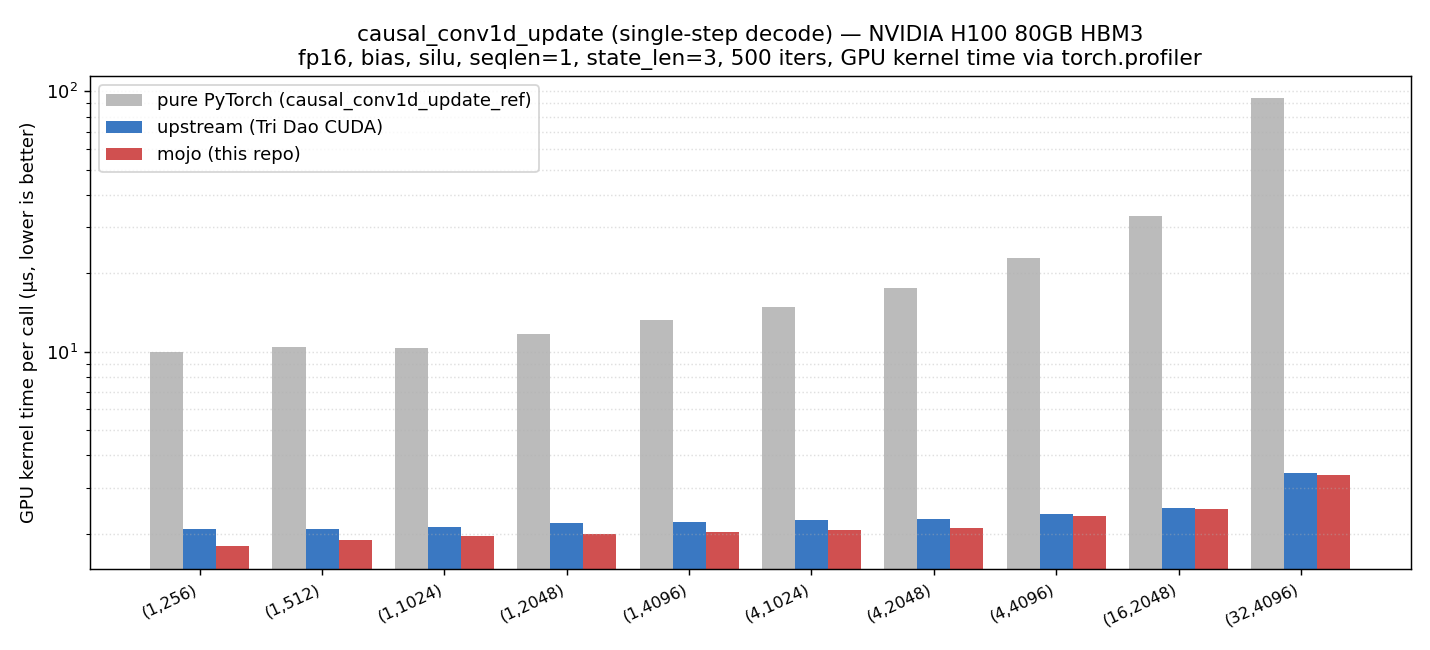
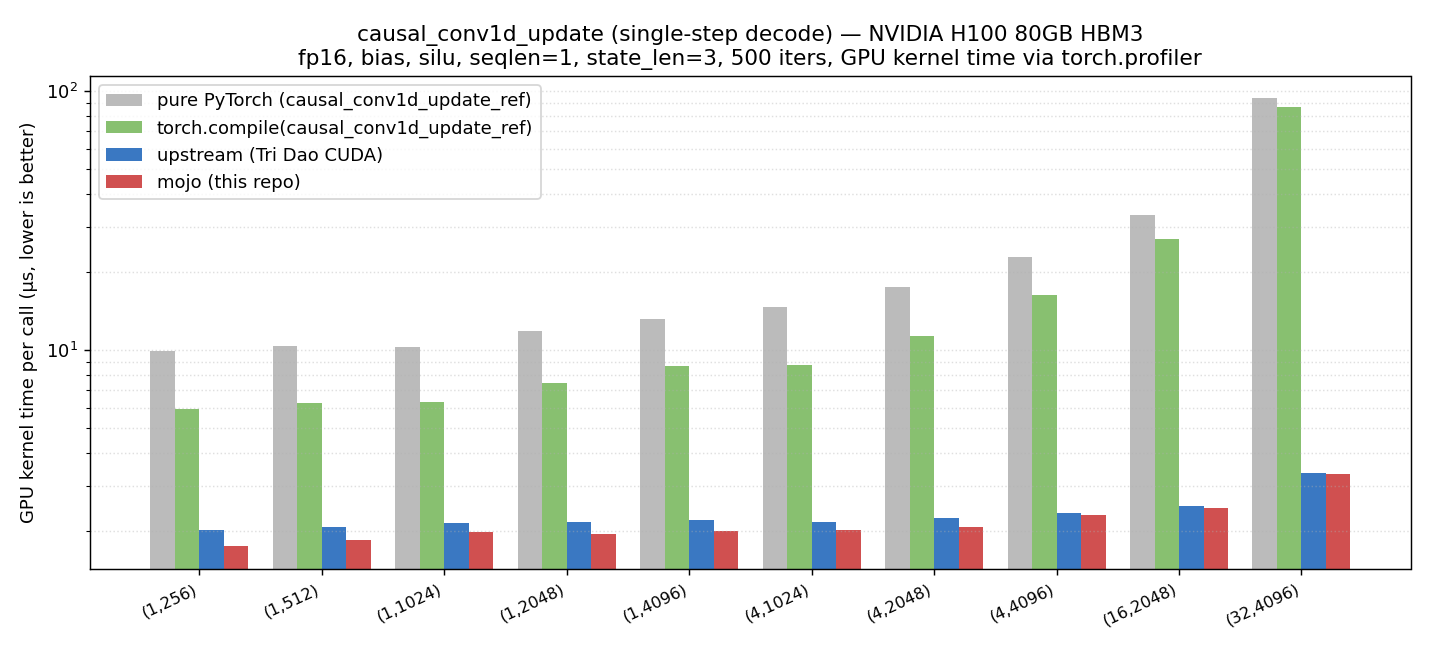
Add torch-compile

diff --git a/benchmarks/plot_bench.py b/benchmarks/plot_bench.py
@@ -20,6 +20,7 @@ import torch.nn.functional as F
 from torch.profiler import ProfilerActivity, profile
 
 import causal_conv1d_mojo
+from causal_conv1d_mojo.reference import causal_conv1d_update_ref
 
 # Optional dep — install with `pip install causal-conv1d==1.6.1` (or
 # `pixi run pip install -e .[bench]`). The package is a C++ extension
@@ -85,6 +86,21 @@ def pytorch_fwd(x, weight, bias):
     return F.silu(out)
 
 
+# torch.compile'd reference. inductor specializes per shape on first call;
+# warmup inside bench_kernel hides the compile cost. We compile the
+# functions once at module load — the dynamo cache handles shape
+# specialization automatically across the SHAPES loop.
+#
+# Bump dynamo's recompile_limit: each new (B,D,L) and each requires_grad
+# toggle counts as a recompile, and the fwd+bwd path adds a grad-enabled
+# specialization per shape. Default 8 falls back to eager partway
+# through the bench, which silently makes the last shapes match pure
+# PyTorch exactly. 64 is comfortably above our shape × grad count.
+torch._dynamo.config.recompile_limit = 64
+pytorch_fwd_compiled = torch.compile(pytorch_fwd)
+update_ref_compiled = torch.compile(causal_conv1d_update_ref)
+
+
 def bench_kernel(fn, warmup: int, iters: int) -> float:
     """Mean GPU time per call, μs, via torch.profiler (CUPTI).
 
@@ -112,23 +128,21 @@ def bench_kernel(fn, warmup: int, iters: int) -> float:
     return total_us / iters
 
 
-def grouped_bar(
-    labels,
-    pt,
-    up,
-    mojo,
-    *,
-    title,
-    out_path,
-    pt_label="pure PyTorch (F.conv1d + F.silu)",
-):
+def grouped_bar(labels, groups, *, title, out_path):
+    """Render a grouped bar chart.
+
+    `groups` is a list of (label, color, values) tuples, one per bar in
+    each cluster. Bars are centered on each x-tick and sized to fit
+    inside a 0.8-wide slot regardless of group count.
+    """
     n = len(labels)
+    n_bars = len(groups)
     x_pos = list(range(n))
-    bw = 0.27
+    bw = 0.8 / n_bars
+    offsets = [(i - (n_bars - 1) / 2) * bw for i in range(n_bars)]
     fig, ax = plt.subplots(figsize=(max(10, 0.9 * n + 2), 5))
-    ax.bar([p - bw for p in x_pos], pt, bw, label=pt_label, color="#bbbbbb")
-    ax.bar(x_pos, up, bw, label="upstream (Tri Dao CUDA)", color="#3a78c2")
-    ax.bar([p + bw for p in x_pos], mojo, bw, label="mojo (this repo)", color="#d05050")
+    for offset, (lbl, color, vals) in zip(offsets, groups):
+        ax.bar([p + offset for p in x_pos], vals, bw, label=lbl, color=color)
     ax.set_xticks(x_pos)
     ax.set_xticklabels(labels, rotation=25, ha="right", fontsize=9)
     ax.set_ylabel("GPU kernel time per call (μs, lower is better)")
@@ -150,8 +164,8 @@ def main() -> None:
     gpu_name = torch.cuda.get_device_name(0)
     labels = [f"({b},{d},{l},{w})" for b, d, l, w in SHAPES]
 
-    fwd_mojo, fwd_up, fwd_pt = [], [], []
-    bwd_mojo, bwd_up, bwd_pt = [], [], []
+    fwd_mojo, fwd_up, fwd_pt, fwd_pt_c = [], [], [], []
+    bwd_mojo, bwd_up, bwd_pt, bwd_pt_c = [], [], [], []
 
     for b, d, l, w in SHAPES:
         # ------- forward only -------
@@ -166,9 +180,13 @@ def main() -> None:
         )
         u_f = bench_kernel(lambda: upstream_fn(x, weight, **kw), WARMUP_FWD, ITERS_FWD)
         p_f = bench_kernel(lambda: pytorch_fwd(x, weight, bias), WARMUP_FWD, ITERS_FWD)
+        pc_f = bench_kernel(
+            lambda: pytorch_fwd_compiled(x, weight, bias), WARMUP_FWD, ITERS_FWD
+        )
         fwd_mojo.append(m_f)
         fwd_up.append(u_f)
         fwd_pt.append(p_f)
+        fwd_pt_c.append(pc_f)
 
         # ------- forward + backward -------
         dout = torch.randn(b, d, l, generator=g).to("cuda", torch.float16)
@@ -184,6 +202,8 @@ def main() -> None:
                     )
                 elif impl == "upstream":
                     out = upstream_fn(x_g, w_g, bias=b_g, activation="silu")
+                elif impl == "pytorch_compiled":
+                    out = pytorch_fwd_compiled(x_g, w_g, b_g)
                 else:
                     out = pytorch_fwd(x_g, w_g, b_g)
                 out.backward(dout)
@@ -193,20 +213,26 @@ def main() -> None:
         m_b = bench_kernel(make_fwd_bwd("mojo"), WARMUP_BWD, ITERS_BWD)
         u_b = bench_kernel(make_fwd_bwd("upstream"), WARMUP_BWD, ITERS_BWD)
         p_b = bench_kernel(make_fwd_bwd("pytorch"), WARMUP_BWD, ITERS_BWD)
+        pc_b = bench_kernel(make_fwd_bwd("pytorch_compiled"), WARMUP_BWD, ITERS_BWD)
         bwd_mojo.append(m_b)
         bwd_up.append(u_b)
         bwd_pt.append(p_b)
+        bwd_pt_c.append(pc_b)
 
         print(
-            f"{(b, d, l, w)!s:>22}  fwd: mojo={m_f:7.1f} up={u_f:7.1f} pt={p_f:7.1f} | "
-            f"fwd+bwd: mojo={m_b:7.1f} up={u_b:7.1f} pt={p_b:7.1f}"
+            f"{(b, d, l, w)!s:>22}  "
+            f"fwd: mojo={m_f:7.1f} up={u_f:7.1f} pt={p_f:7.1f} pt-c={pc_f:7.1f} | "
+            f"fwd+bwd: mojo={m_b:7.1f} up={u_b:7.1f} pt={p_b:7.1f} pt-c={pc_b:7.1f}"
         )
 
     grouped_bar(
         labels,
-        fwd_pt,
-        fwd_up,
-        fwd_mojo,
+        [
+            ("pure PyTorch (F.conv1d + F.silu)", "#bbbbbb", fwd_pt),
+            ("torch.compile(pure PyTorch)", "#88c070", fwd_pt_c),
+            ("upstream (Tri Dao CUDA)", "#3a78c2", fwd_up),
+            ("mojo (this repo)", "#d05050", fwd_mojo),
+        ],
         title=(
             f"causal_conv1d FORWARD — {gpu_name}\n"
             f"fp16, bias, silu, {ITERS_FWD} iters, GPU kernel time via torch.profiler"
@@ -215,9 +241,12 @@ def main() -> None:
     )
     grouped_bar(
         labels,
-        bwd_pt,
-        bwd_up,
-        bwd_mojo,
+        [
+            ("pure PyTorch (F.conv1d + F.silu)", "#bbbbbb", bwd_pt),
+            ("torch.compile(pure PyTorch)", "#88c070", bwd_pt_c),
+            ("upstream (Tri Dao CUDA)", "#3a78c2", bwd_up),
+            ("mojo (this repo)", "#d05050", bwd_mojo),
+        ],
         title=(
             f"causal_conv1d FORWARD + BACKWARD — {gpu_name}\n"
             f"fp16, bias, silu, {ITERS_BWD} iters, GPU kernel time via torch.profiler"
@@ -227,7 +256,7 @@ def main() -> None:
 
     # ---- single-step update bench ----
     update_labels = [f"({b},{d})" for b, d in UPDATE_SHAPES]
-    update_mojo, update_up, update_ref = [], [], []
+    update_mojo, update_up, update_ref, update_ref_c = [], [], [], []
     W = 4
     state_len = W - 1
     for b, d in UPDATE_SHAPES:
@@ -243,12 +272,10 @@ def main() -> None:
                 fn = causal_conv1d_mojo.causal_conv1d_update
             elif impl == "upstream":
                 fn = upstream_update_fn
+            elif impl == "ref_compiled":
+                fn = update_ref_compiled
             else:
-                from causal_conv1d.causal_conv1d_interface import (
-                    causal_conv1d_update_ref as fn_ref,
-                )
-
-                fn = fn_ref
+                fn = causal_conv1d_update_ref
 
             def step():
                 fn(x, state, weight, bias=bias, activation="silu")
@@ -258,23 +285,30 @@ def main() -> None:
         m_u = bench_kernel(make_step("mojo"), WARMUP_UPDATE, ITERS_UPDATE)
         u_u = bench_kernel(make_step("upstream"), WARMUP_UPDATE, ITERS_UPDATE)
         r_u = bench_kernel(make_step("ref"), WARMUP_UPDATE, ITERS_UPDATE)
+        rc_u = bench_kernel(make_step("ref_compiled"), WARMUP_UPDATE, ITERS_UPDATE)
         update_mojo.append(m_u)
         update_up.append(u_u)
         update_ref.append(r_u)
-        print(f"{(b, d)!s:>14}  update: mojo={m_u:7.1f} up={u_u:7.1f} ref={r_u:7.1f}")
+        update_ref_c.append(rc_u)
+        print(
+            f"{(b, d)!s:>14}  update: mojo={m_u:7.1f} up={u_u:7.1f} "
+            f"ref={r_u:7.1f} ref-c={rc_u:7.1f}"
+        )
 
     grouped_bar(
         update_labels,
-        update_ref,
-        update_up,
-        update_mojo,
+        [
+            ("pure PyTorch (causal_conv1d_update_ref)", "#bbbbbb", update_ref),
+            ("torch.compile(causal_conv1d_update_ref)", "#88c070", update_ref_c),
+            ("upstream (Tri Dao CUDA)", "#3a78c2", update_up),
+            ("mojo (this repo)", "#d05050", update_mojo),
+        ],
         title=(
             f"causal_conv1d_update (single-step decode) — {gpu_name}\n"
             f"fp16, bias, silu, seqlen=1, state_len=3, "
             f"{ITERS_UPDATE} iters, GPU kernel time via torch.profiler"
         ),
         out_path=DOCS / "bench_update.png",
-        pt_label="pure PyTorch (causal_conv1d_update_ref)",
     )
 
 